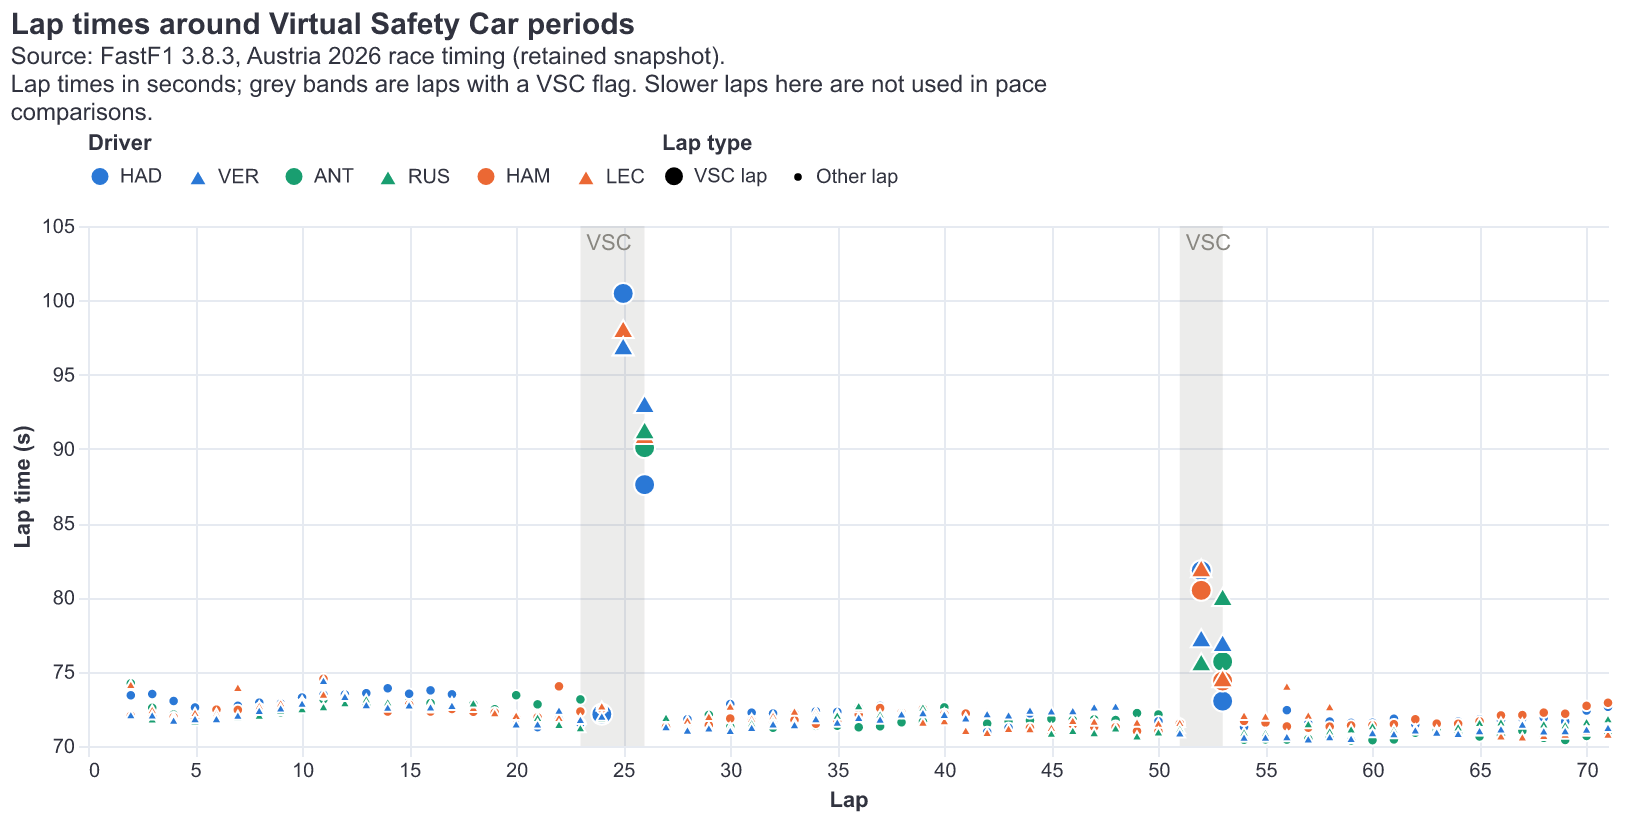
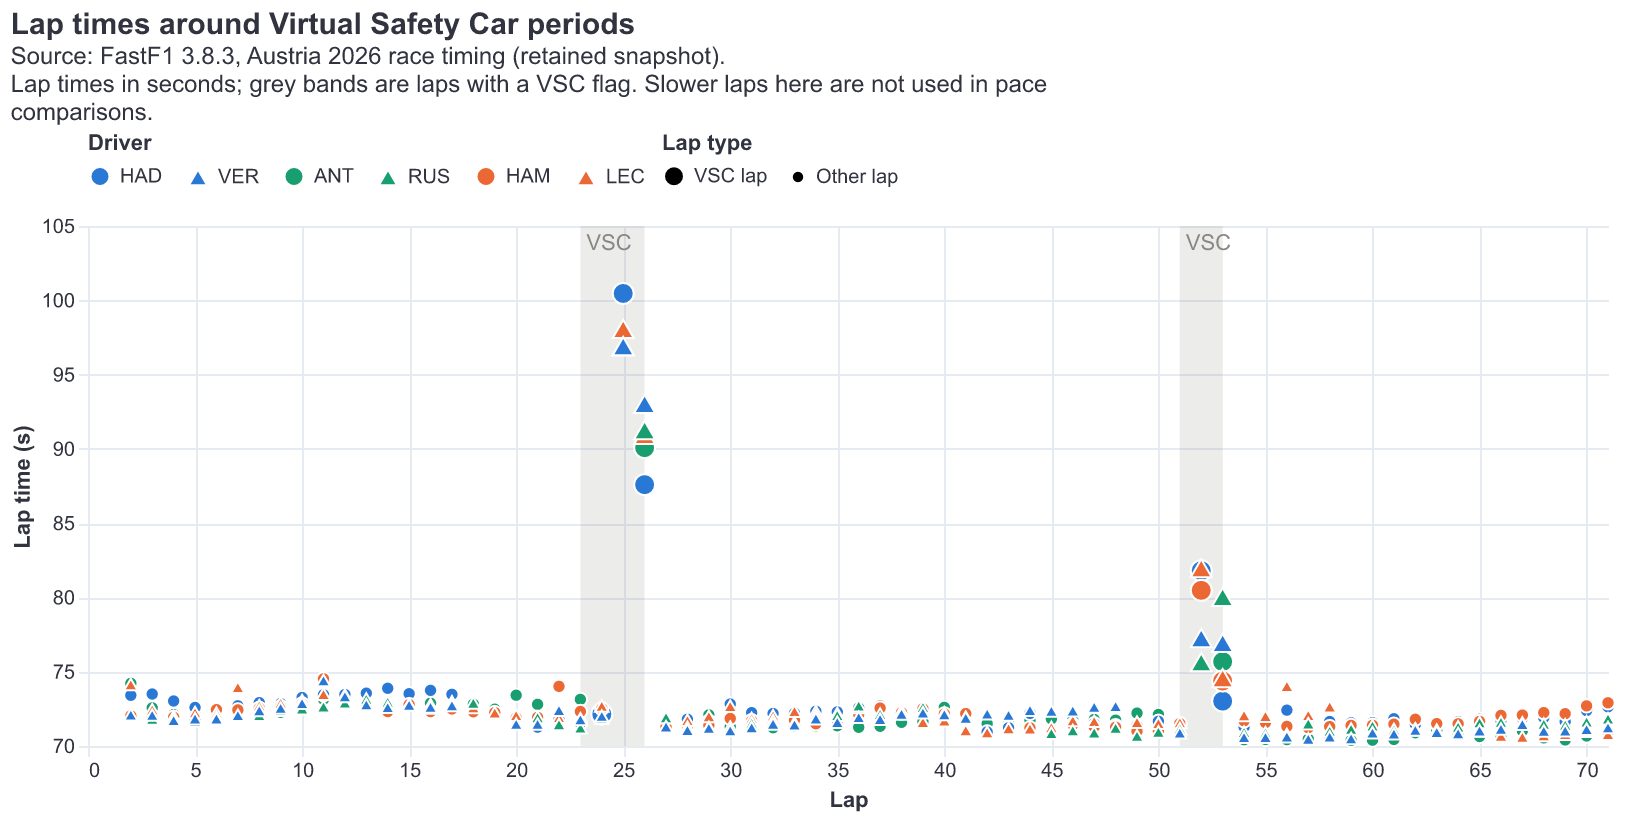
Address the non-blocking review notes on #25 and #26
- Each redraw clears the recorded boxes and points, so a resize or font redraw leaves no stale entries
- The matched takeaway states the tyre-age range when it varies across a window, with singular "lap" where needed
- The takeaway only says "but" when the gaps point different ways
- VSC export normal laps are larger so team-mates' circles and triangles stay distinguishable
- The usability record notes the Arial assumption behind the tyre-age label spacing

diff --git a/app/story.py b/app/story.py
@@ -128,6 +128,19 @@ def pace_slide() -> None:
                'not a better strategy. Fuel load, traffic and conditions are not controlled.')
 
 
+def tyre_ages(row) -> str:
+    """How much younger or older driver A's tyres were across a matched window, in words; blank when always equal."""
+    low, high = row.MinimumTyreAgeDifference, row.MaximumTyreAgeDifference
+    laps = lambda d: f"{abs(d):.0f} lap{'' if abs(d) == 1 else 's'}"
+    if low == high:
+        return f", on tyres {laps(low)} {'younger' if low < 0 else 'older'}" if low else ''
+    if low < 0 < high:
+        return f', on tyres from {laps(low)} younger to {laps(high)} older'
+    if low >= 0:
+        return f", on tyres {'up to' if low == 0 else f'{abs(low):.0f} to'} {laps(high)} older"
+    return f", on tyres {'up to' if high == 0 else f'{abs(high):.0f} to'} {laps(low)} younger"
+
+
 def matched_contrast(summary: pd.DataFrame) -> str:
     """The team-mate pair whose matched windows differ most (5+ pairs each), set against their whole-race medians."""
     solid = summary.loc[summary.MatchedLaps.ge(5)]
@@ -139,16 +152,14 @@ def matched_contrast(summary: pd.DataFrame) -> str:
     typical = pace.groupby('Driver').LapTimeSeconds.median()
 
     def phrase(row) -> str:
-        same_age = row.MinimumTyreAgeDifference == row.MaximumTyreAgeDifference and row.MinimumTyreAgeDifference
-        age = (f", on tyres {abs(row.MinimumTyreAgeDifference):.0f} laps "
-               f"{'younger' if row.MinimumTyreAgeDifference < 0 else 'older'}") if same_age else ''
         return (f"{abs(row.MedianDifferenceSecondsAminusB):.3f} s {'slower' if row.MedianDifferenceSecondsAminusB > 0 else 'faster'} "
-                f'on {row.Compound.title()} in laps {row.Window} ({row.MatchedLaps} pairs{age})')
+                f'on {row.Compound.title()} in laps {row.Window} ({row.MatchedLaps} pairs{tyre_ages(row)})')
     high = groups.loc[groups.MedianDifferenceSecondsAminusB.idxmax()]
     low = groups.loc[groups.MedianDifferenceSecondsAminusB.idxmin()]
     whole = typical[a]-typical[b]
-    return (f"Over the whole race {a}'s typical lap was {abs(whole):.3f} s {'faster' if whole < 0 else 'slower'} than {b}'s, "
-            f'but on matched laps {a} was {phrase(high)} and {phrase(low)}.')
+    contrast = len({whole > 0, high.MedianDifferenceSecondsAminusB > 0, low.MedianDifferenceSecondsAminusB > 0}) > 1
+    return (f"Over the whole race {a}'s typical lap was {abs(whole):.3f} s {'faster' if whole < 0 else 'slower'} than {b}'s"
+            f"{', but' if contrast else ';'} on matched laps {a} was {phrase(high)} and {phrase(low)}.")
 
 
 def matched_pace_slide() -> None:

diff --git a/tests/test_story_app.py b/tests/test_story_app.py
@@ -173,6 +173,18 @@ class StoryAppTests(unittest.TestCase):
         self.assertAlmostEqual(table[('ANT', 51)], 48.957)
         self.assertTrue(pd.isna(table[('HAM', 25)]))   # The overlapping visit has no gap to report.
 
+    def test_matched_takeaway_states_tyre_age_ranges_and_single_laps(self):
+        def takeaway():
+            body = next(h.proto.body for h in self.app.get('html') if 'f1-takeaway' in h.proto.body)
+            return body.split('class="big">')[1].split('</div>')[0]
+        self.go_to(1)
+        self.app.radio[0].set_value('Matched race windows').run()
+        self.app.multiselect[0].set_value(['Red Bull Racing']).run()
+        self.assertIn('0.574 s slower on Hard in laps 41–60 (15 pairs, on tyres from 22 laps younger to 9 laps older)', takeaway())
+        self.assertIn("VER's; on matched laps", takeaway())   # Every gap points the same way, so no "but".
+        self.app.multiselect[0].set_value(['Ferrari']).run()
+        self.assertIn('(6 pairs, on tyres 1 lap older)', takeaway())
+
     def test_every_view_names_its_teams_and_source(self):
         self.app.multiselect[0].set_value(['Ferrari']).run()
         for slide in range(6):

diff --git a/tests/test_replay.py b/tests/test_replay.py
@@ -83,6 +83,14 @@ class ReplayRenderTests(unittest.TestCase):
         cls.laps = charts.load_data(ROOT/'data/processed/austria-2026')['laps']
         cls.page = lambda self, kind, height=480: replay.html(self.laps, kind, 'dark', height)
 
+    def test_a_redraw_keeps_only_the_boxes_and_points_it_drew(self):
+        for kind, height, hook in (('pitclock', 488, 'BOXES'), ('event', 800, 'BOXES'), ('event', 800, 'POINTS')):
+            with self.subTest(kind=kind, hook=hook):
+                page = self.page(kind, height)
+                once = evaluate(page, f'{hook}.length')
+                self.assertGreater(once, 0)
+                self.assertEqual(evaluate(page, f'(frame(D.t1), frame(D.t1), {hook}.length)'), once)   # As after a resize.
+
     def test_node_round_trips_unicode_independently_of_system_encoding(self):
         text = '\u2714 VSC \u00b7 \u26a0 boundary'
         page = '<script>document.getElementById("chart").innerHTML = ' + json.dumps(text, ensure_ascii=False) + ';</script>'

diff --git a/app/charts.py b/app/charts.py
@@ -334,7 +334,7 @@ def vsc_chart(laps: pd.DataFrame, mode: str) -> alt.LayerChart:
     data = laps.loc[~(laps.IsFirstLap | laps.IsPitInLap | laps.IsPitOutLap)].assign(
         Phase=lambda d: d.HasVSC.map({True: 'VSC lap', False: 'Other lap'}))
     dots = alt.Chart(data).mark_point(filled=True, opacity=1, stroke=SURFACE[mode], strokeWidth=1).encode(
-        size=alt.Size('Phase:N', scale=alt.Scale(domain=['VSC lap', 'Other lap'], range=[110, 28]),
+        size=alt.Size('Phase:N', scale=alt.Scale(domain=['VSC lap', 'Other lap'], range=[110, 45]),
                       legend=alt.Legend(title='Lap type', orient='top')),
         x=alt.X('LapNumber:Q', title='Lap', scale=alt.Scale(domain=[1, int(laps.LapNumber.max())], nice=False)),
         y=alt.Y('LapTimeSeconds:Q', title='Lap time (s)', scale=alt.Scale(zero=False)),

diff --git a/app/replay.py b/app/replay.py
@@ -500,6 +500,7 @@ function eventFrame() {   // Lap time, position and gap at each lap completion a
 let currentTime = D.t0;
 function frame(t) {
   currentTime = t;
+  BOXES.length = 0; POINTS.length = 0;   // Only what this frame drew, not earlier draws.
   if (KIND === 'pitclock') return pitFrame();
   if (KIND === 'event') return eventFrame();
   if (KIND === 'pace') return paceFrame(Math.min(1, 3 * (t - D.t0) / (D.t1 - D.t0)));

diff --git a/docs/usability-check/README.md b/docs/usability-check/README.md
@@ -33,5 +33,7 @@ Automated checks live in `tests/test_accessibility.py` and `tests/test_replay.py
 
 - Fixed 7 November 2026: tyre-age export labels now sit clear of every dot and label inside their panel, with a thin leader line where a label moved; matched-pace "n" labels just left of zero move to the far side so they no longer cross the zero line; the VSC export draws normal laps smaller so the VSC laps stand out. Tests check all three.
 - VSC export: normal-pace dots still overlap each other; read exact values from the dashboard view.
+- VSC export: normal laps were enlarged on 16 November 2026 (marker area 45, VSC laps 110) so team-mates' circles and triangles stay distinguishable; driver identity also comes from colour and the legend.
+- Tyre-age export label spacing is computed from Arial Bold 11 px widths (about 5.1 px a character, with margin), and the test checks those computed boxes rather than the rendered text. On a machine whose renderer substitutes a wider font, labels could still touch dots; re-export and check the image there.
 - Contrast was computed from the colours used, not measured from screenshots.
 - Not tested: real screen readers, Safari/Firefox, touch devices, printed output.
